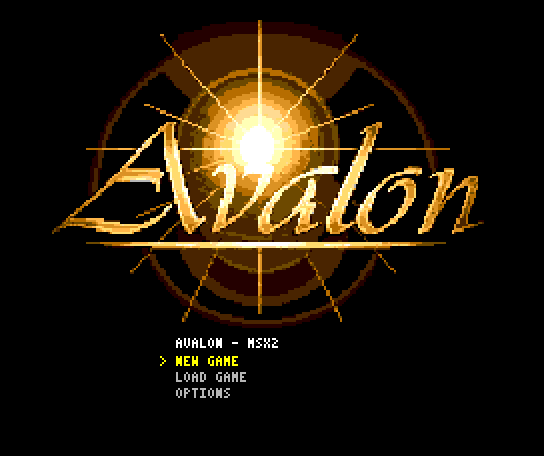
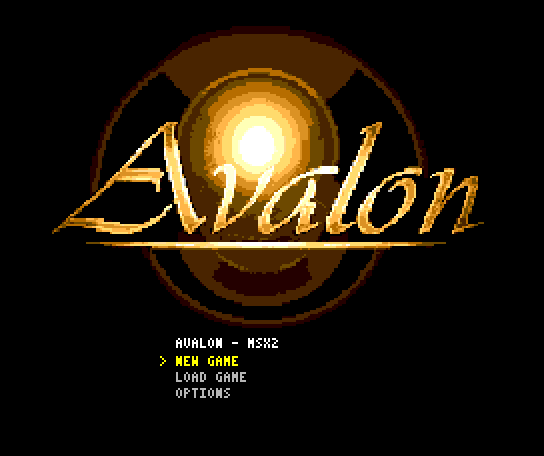
Avalon MSX: publish the new ROM (title screen, part 2)
09f1fd53…, the committed "New title screen (part 2)" build (rays removed
from the title art), validated by avalon-msx's title5 test reports on
Philips NMS 8250 and C-BIOS MSX2 (87 checks each, none failed). The
site's title-screen image is recaptured to match.

diff --git a/msx/index.html b/msx/index.html
@@ -33,7 +33,7 @@
           </div>
         </div>
         <a class="panel-ornate msx-title-card" href="/msx/play/" aria-label="Play Avalon MSX in your browser">
-          <img src="/game/msx/title.png" width="544" height="456" alt="The Avalon MSX title screen: the golden Avalon logo over a radiant sun, with New Game, Load Game and Options" />
+          <img src="/game/msx/title.png" width="544" height="456" alt="The Avalon MSX title screen: the golden Avalon logo over a glowing sun, with New Game, Load Game and Options" />
           <span class="msx-play-badge"><span class="yt-play-icon"></span><span>Play now</span></span>
         </a>
       </div>
